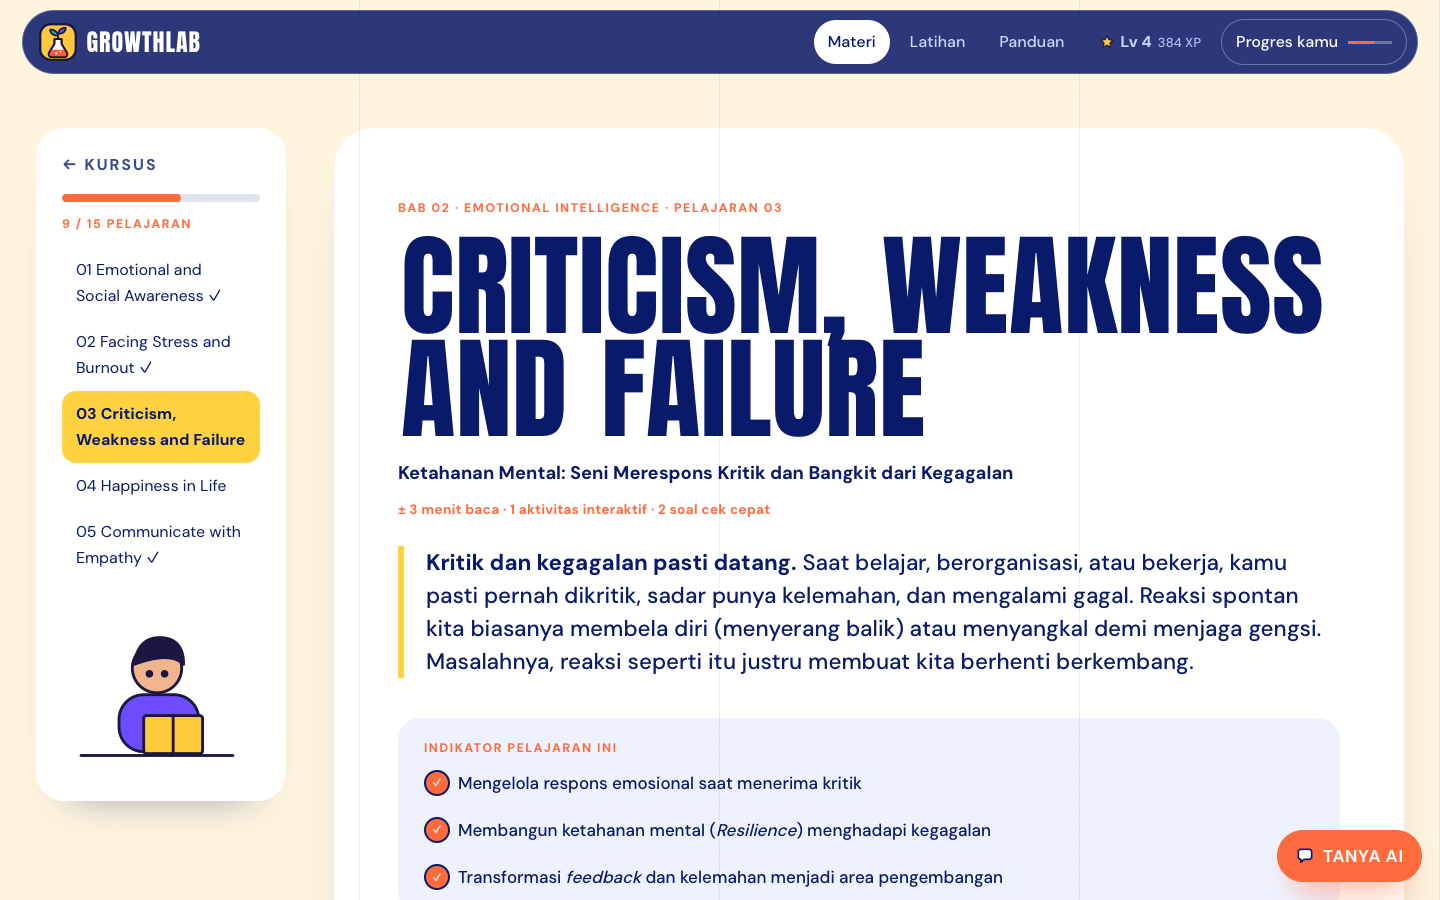
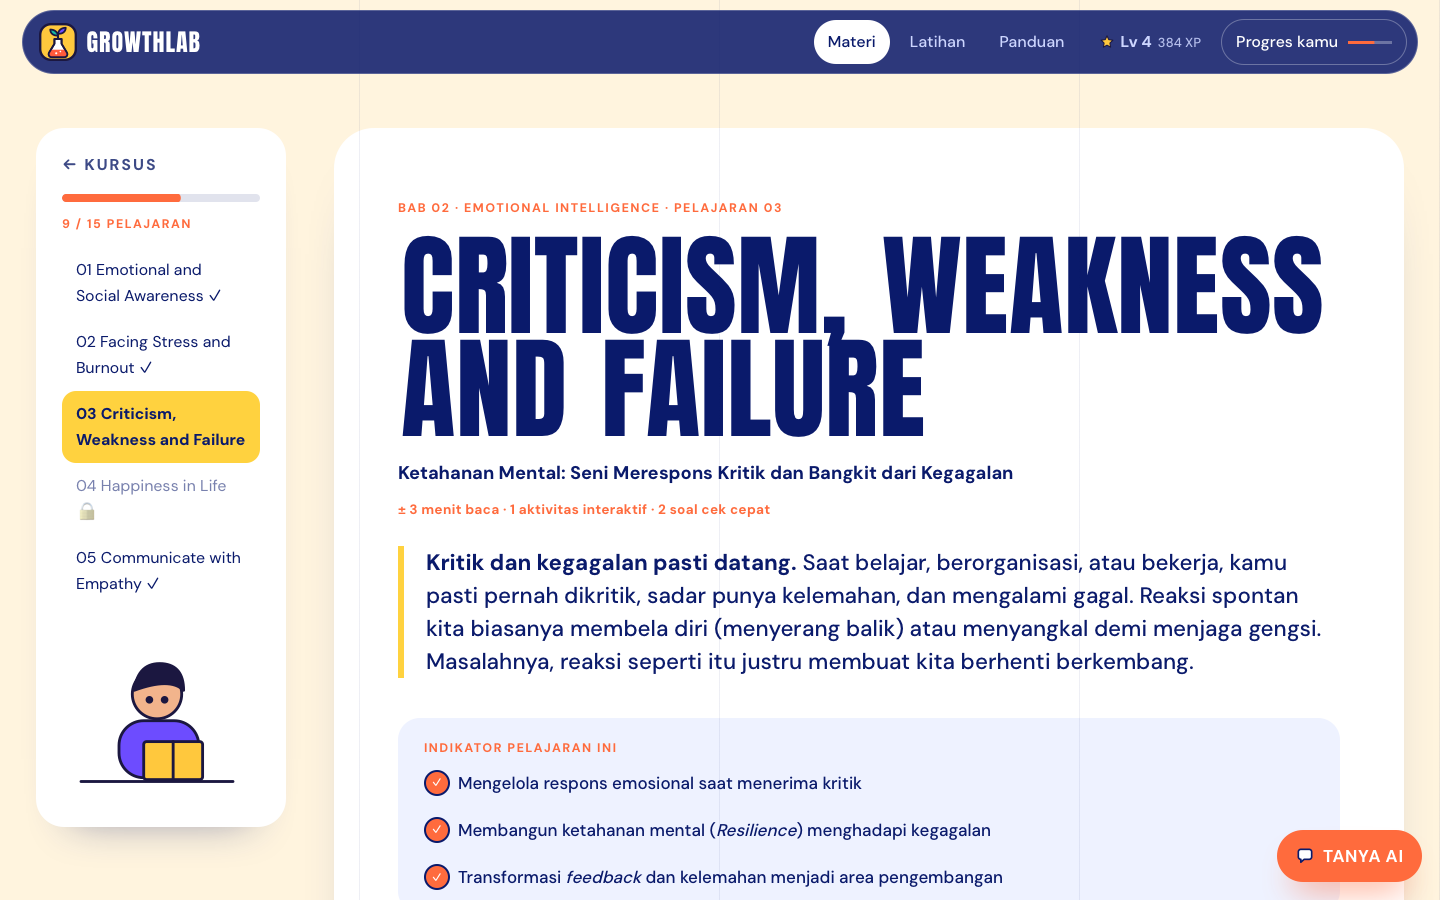
README GitHub: screenshot terbaru, gamifikasi selalu aktif, materi berurutan, video promo

Changed region(s): [[0.0, 0.6844, 0.2188, 0.9333], [0.0312, 0.5289, 0.1562, 0.6533]]

diff --git a/docs/README-github.md b/docs/README-github.md
@@ -34,7 +34,9 @@ Setiap pelajaran berisi uraian, konsep penting, diagram, contoh kasus, aktivitas
 
 ## Fitur utama
 
-**📚 Materi interaktif.** 15 pelajaran dalam 3 bab, lengkap dengan peta konsep dan glosarium.
+**📚 Materi interaktif.** 15 pelajaran dalam 3 bab, lengkap dengan peta konsep (dengan pratinjau saat kursor diarahkan) dan glosarium. Pelajaran dibuka berurutan: pelajaran berikutnya terbuka setelah pelajaran sebelumnya ditandai selesai.
+
+**🎬 Video promo di beranda.** Video singkat 30 detik berputar otomatis tanpa suara; suaranya bisa dinyalakan lewat tombol di pojok video.
 
 ![Halaman pelajaran](docs/screenshots/03-pelajaran.png)
 
@@ -54,12 +56,12 @@ Setiap pelajaran berisi uraian, konsep penting, diagram, contoh kasus, aktivitas
 
 **📊 Nilai akhir yang transparan.** Nilai Akhir = Pilihan Ganda × 30% + Simulasi × 70%. Nilai terbuka setelah semua latihan selesai, lalu bisa dicetak sebagai kartu hasil.
 
-**🏆 Gamifikasi yang sehat (bisa dimatikan).**
+**🏆 Gamifikasi yang sehat (selalu aktif).**
 - **XP:** didapat dari penguasaan materi, bukan sekadar klik. Mengulang latihan hanya menambah XP kalau skornya naik.
 - **Level karier:** Pemula → Calon Kandidat → Siap Interview → Job Ready.
 - **Badge dan target:** 12 badge kompetensi, streak mingguan yang ramah (3 hari per minggu, ada jatah hari libur), dan quest mingguan.
 - **Profil kesiapan kerja:** radar 3 soft skill dan sertifikat penyelesaian (PNG).
-- **Tanpa leaderboard:** semua elemen bisa dimatikan dengan satu tombol.
+- **Tanpa leaderboard:** tidak ada persaingan antarpengguna; yang dibandingkan hanya progresmu sendiri.
 
 ![Panel perjalanan karier](docs/screenshots/06-gamifikasi.png)
 
@@ -88,7 +90,7 @@ index.html     kerangka halaman
 css/           gaya (01–14), dimuat berurutan
 js/            skrip (01–21) + js/gamifikasi/ (XP, badge, streak, quest, cadangan, log)
 vendor/        pustaka & font lokal
-assets/        gambar simulasi & storyboard
+assets/        gambar simulasi, storyboard & video promo
 offline/       paket ZIP dan SCORM siap unduh
 ```
 

diff --git a/README.md b/README.md
@@ -20,7 +20,7 @@ css/                  gaya, dimuat berurutan sesuai nomor
   10-layout-lebar.css   revisi dosen: konten penuh layar 16:9
   11-lencana-bab.css    lencana saat bab tuntas 5/5
   12-nilai-terkunci.css nilai akhir terkunci sampai semua latihan selesai
-  13-gamifikasi.css     XP, level, notifikasi (bisa dimatikan)
+  13-gamifikasi.css     XP, level, notifikasi (selalu aktif)
   14-transisi.css       10 jenis transisi antarhalaman (dipilih acak)
 js/                   skrip, dimuat berurutan sesuai nomor
   03-data.js            SEMUA ISI: materi Bab 1–3, kuis, drag & drop, simulasi, glosarium (edit teks di sini)
